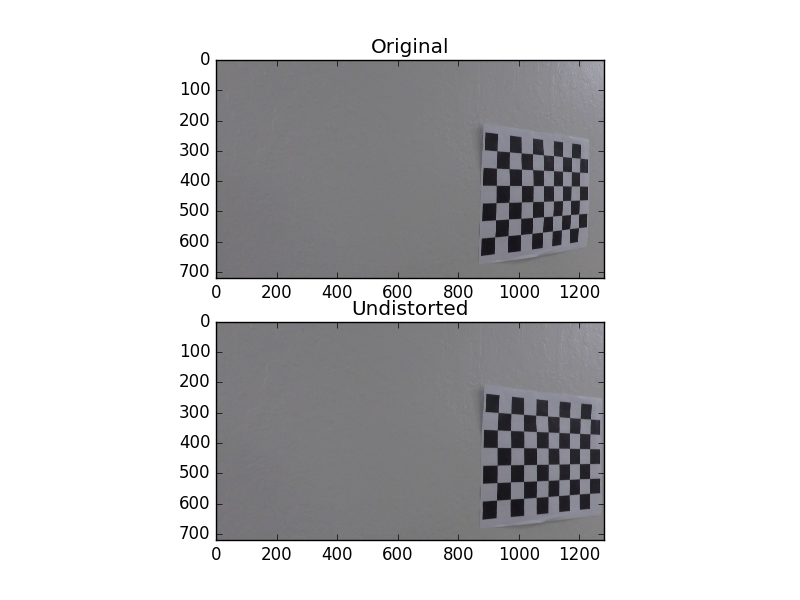
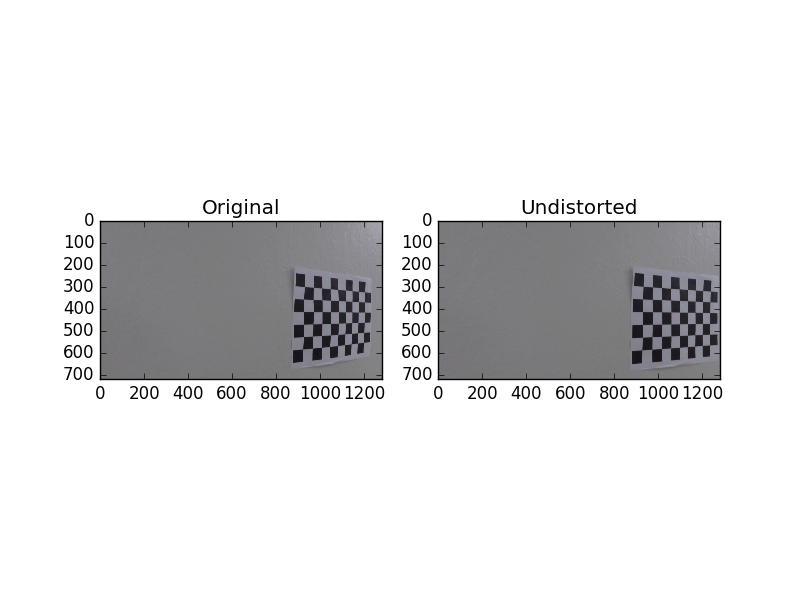
changed orientation of camera cal images

diff --git a/advanced_lane_finding.py b/advanced_lane_finding.py
@@ -531,8 +531,8 @@ for fidx in range(len(fname_array)):
     undist = cv2.undistort(src, mtx, dist)
 
     # Save images
-    plt.subplot(2,1,1),plt.imshow(src),plt.title('Original')
-    plt.subplot(2,1,2),plt.imshow(undist),plt.title('Undistorted')
+    plt.subplot(1,2,1),plt.imshow(src),plt.title('Original')
+    plt.subplot(1,2,2),plt.imshow(undist),plt.title('Undistorted')
     filestr = 'output_images/undistorted_chessboard'+str(fidx)+'.png'
     plt.savefig(filestr, format='png')
 
